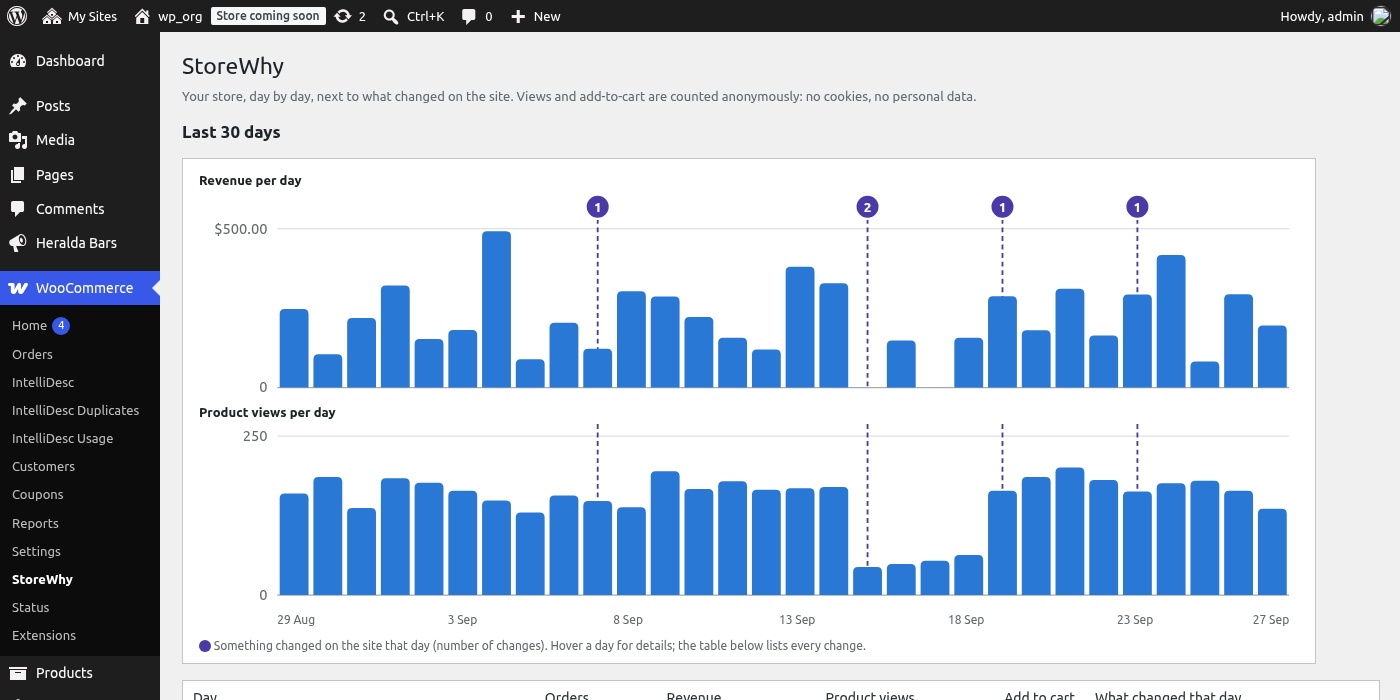
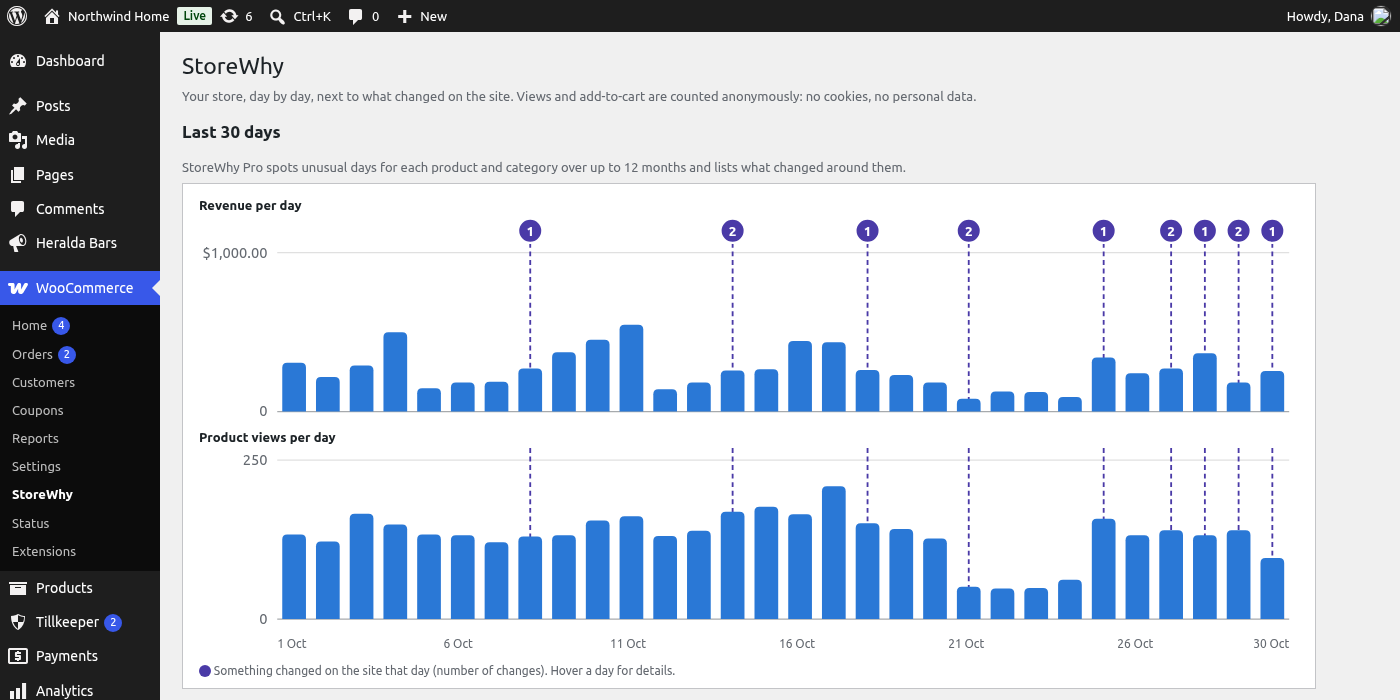
Retake wp.org screenshots; explain the public view-counter route

diff --git a/includes/tracking.php b/includes/tracking.php
@@ -55,6 +55,8 @@ function stwy_register_rest_routes() {
 		array(
 			'methods'             => 'POST',
 			'callback'            => 'stwy_rest_view',
+			// Public on purpose: logged-out visitors' browsers report the view. The callback only accepts
+			// same-site requests from non-bots, caps views per product per minute, and stores a counter only.
 			'permission_callback' => '__return_true',
 			'args'                => array(
 				'product_id' => array(
